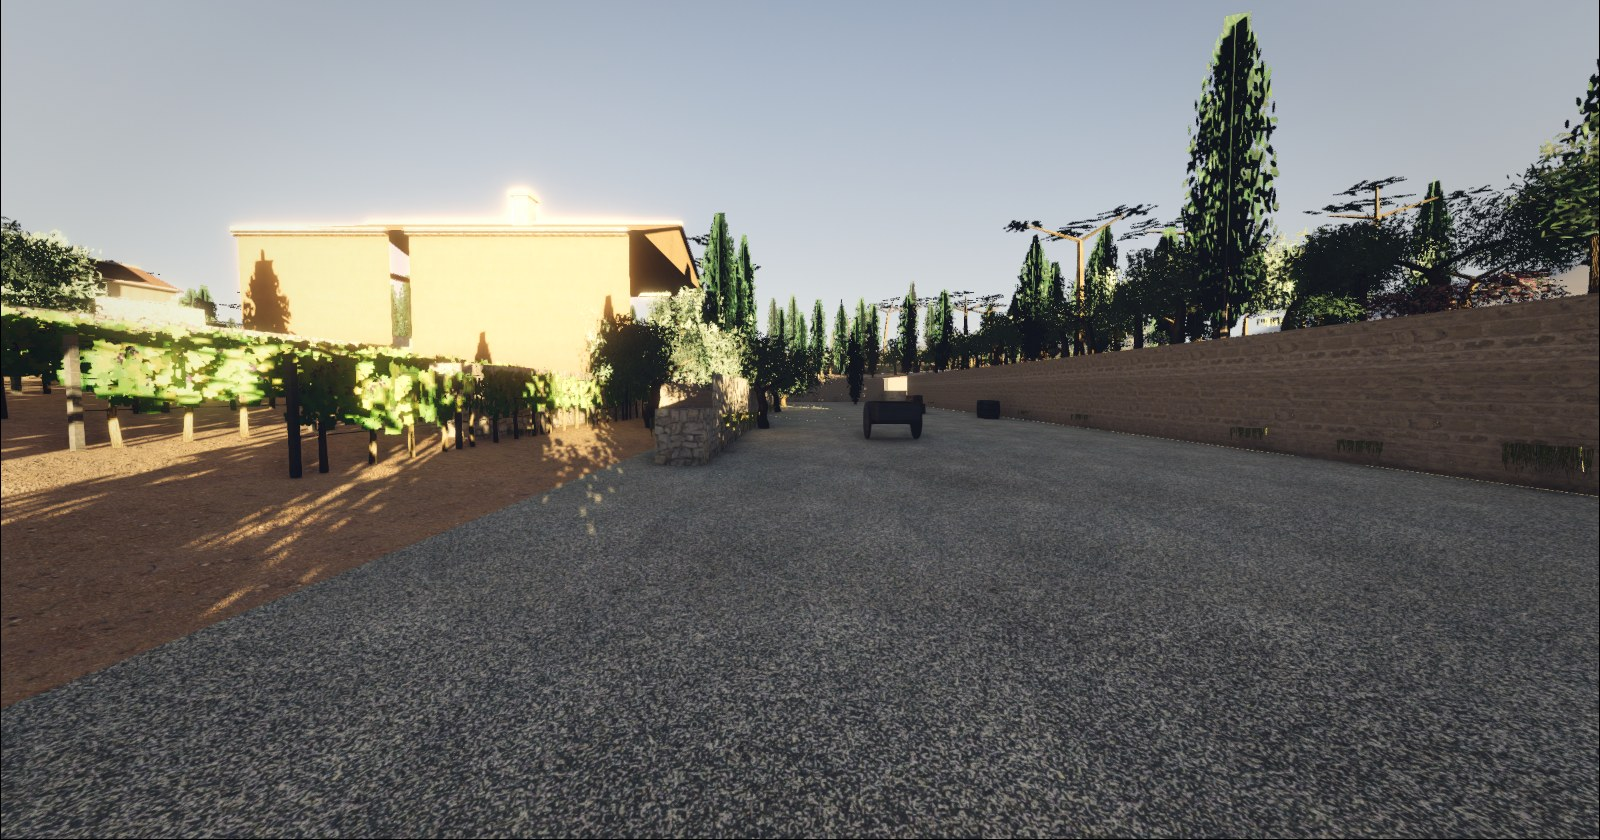
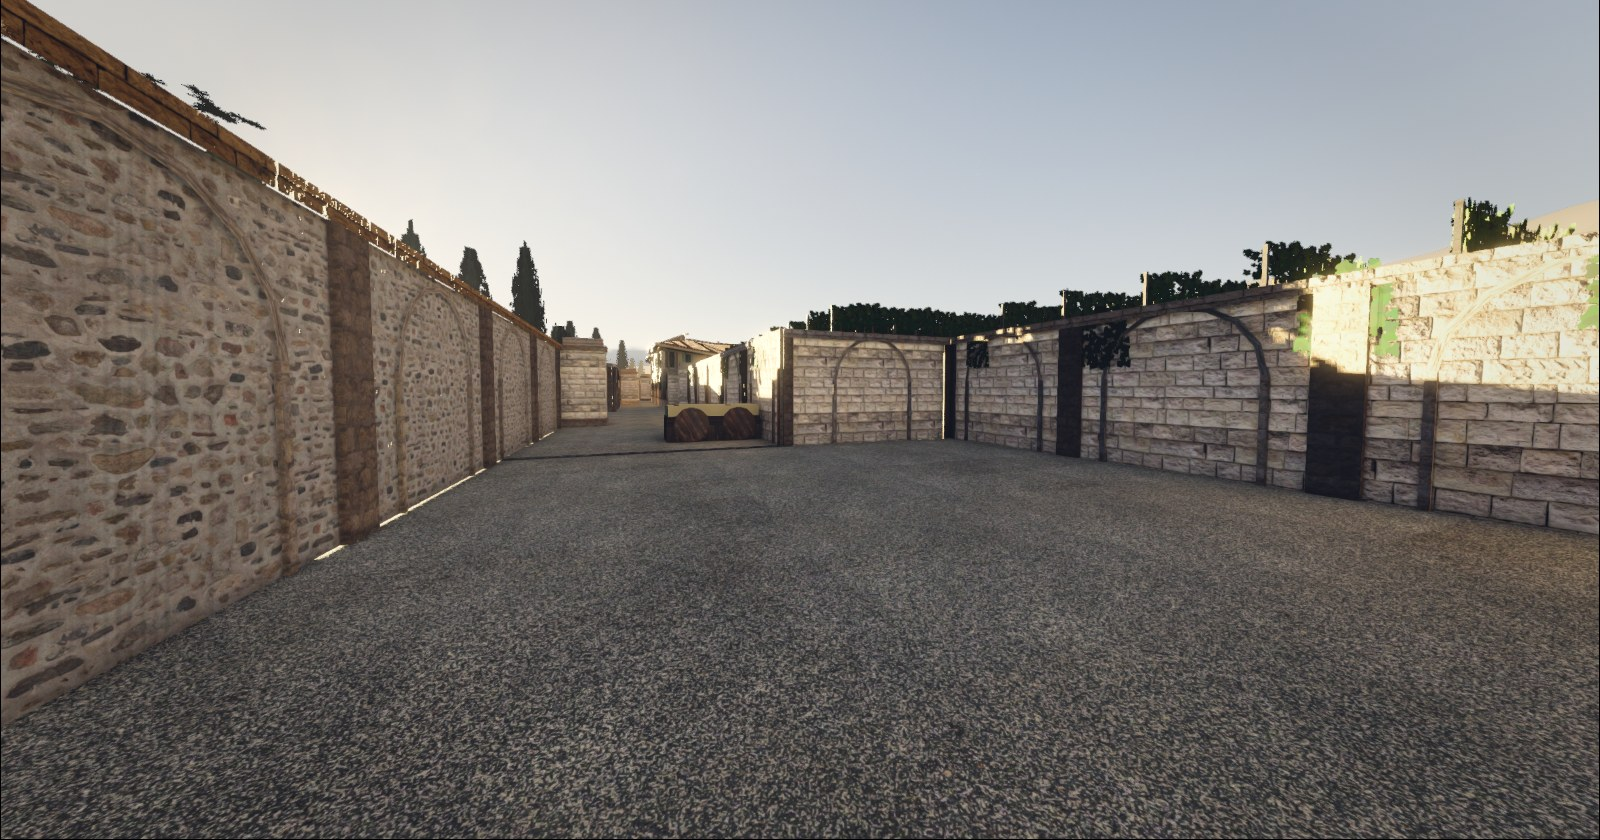
Hjemmeside: Fattoria-områder efter den nye bane (piazza, tærskeplads, udkigstårn, tinaia, grusgård)

diff --git a/index.html b/index.html
@@ -194,8 +194,8 @@
     </section>
 
     <div class="tape tape--b" aria-hidden="true"><div class="tape__track">
-      <span>DE_BUREAU ▮ TAGTERRASSEN ▮ ATRIET ▮ DE_NISEKO ▮ KANALEN ▮ ZEN-HAVEN ▮ DE_FATTORIA ▮ VINMARKEN ▮ VINKÆLDEREN ▮ PIAZZAEN ▮&nbsp;</span>
-      <span>DE_BUREAU ▮ TAGTERRASSEN ▮ ATRIET ▮ DE_NISEKO ▮ KANALEN ▮ ZEN-HAVEN ▮ DE_FATTORIA ▮ VINMARKEN ▮ VINKÆLDEREN ▮ PIAZZAEN ▮&nbsp;</span>
+      <span>DE_BUREAU ▮ TAGTERRASSEN ▮ ATRIET ▮ DE_NISEKO ▮ KANALEN ▮ ZEN-HAVEN ▮ DE_FATTORIA ▮ PIAZZAEN ▮ TÆRSKEPLADSEN ▮ UDKIGSTÅRNET ▮ TINAIAEN ▮&nbsp;</span>
+      <span>DE_BUREAU ▮ TAGTERRASSEN ▮ ATRIET ▮ DE_NISEKO ▮ KANALEN ▮ ZEN-HAVEN ▮ DE_FATTORIA ▮ PIAZZAEN ▮ TÆRSKEPLADSEN ▮ UDKIGSTÅRNET ▮ TINAIAEN ▮&nbsp;</span>
     </div></div>
 
     <!-- BANER -->
@@ -228,11 +228,11 @@
             <li data-map="niseko" hidden><button class="pool__btn" data-name="de_niseko · a – zen-haven" data-img="assets/img/maps/niseko_a.jpg" data-radar="assets/img/radar/niseko.png" data-desc="A-site: zen-have med rakede grusbede, helligdom og torii i nordøst. Åbent, med sigt langs East Long.">A – Zen-haven <small>03</small></button></li>
             <li data-map="niseko" hidden><button class="pool__btn" data-name="de_niseko · b – lagerhuset" data-img="assets/img/maps/niseko_b.jpg" data-radar="assets/img/radar/niseko.png" data-desc="B-site: lagerhuset i vest med træbalkon (B Gallery) og to døre – tæt kamp bag papirvæggene.">B – Lagerhuset <small>04</small></button></li>
             <li data-map="niseko" hidden><button class="pool__btn" data-name="de_niseko · hijackers" data-img="assets/img/maps/niseko_south.jpg" data-radar="assets/img/radar/niseko.png" data-desc="Hijackernes spawn i syd: Canal Road og Hij Alley fører op mod landsbyens hjerte.">Hijackernes gyde <small>05</small></button></li>
-            <li data-map="fattoria" hidden><button class="pool__btn" data-name="de_fattoria · vinmarken" data-img="assets/img/maps/fattoria_vineyard.jpg" data-radar="assets/img/radar/fattoria.png" data-desc="Midten: vinmarken med gennemsigtige vinrækker, en 45°-stenmur og væltede tønder – lavt sollys og lange skygger.">Vinmarken <small>01</small></button></li>
-            <li data-map="fattoria" hidden><button class="pool__btn" data-name="de_fattoria · a – vinkælderen" data-img="assets/img/maps/fattoria_cellar.jpg" data-radar="assets/img/radar/fattoria.png" data-desc="A-site: den gamle vinkælder med hvælvinger, tønder og lysskakter. Presseriet, Kælderbalkonen og Flaskelageret fører ned.">A – Vinkælderen <small>02</small></button></li>
-            <li data-map="fattoria" hidden><button class="pool__btn" data-name="de_fattoria · b – villa-piazzaen" data-img="assets/img/maps/fattoria_piazza.jpg" data-radar="assets/img/radar/fattoria.png" data-desc="B-site: villaens piazza med marmorfontæne og loggia. Hovedporten, Biblioteket og Staldene lukker krydsilden.">B – Piazzaen <small>03</small></button></li>
-            <li data-map="fattoria" hidden><button class="pool__btn" data-name="de_fattoria · terrakotta-terrassen" data-img="assets/img/maps/fattoria_terrace.jpg" data-radar="assets/img/radar/fattoria.png" data-desc="Terrakotta-terrassen over kælderen: åben, solbeskinnet og farlig – Pergola- og Biblioteks-trapperne fører op.">Terrakotta-terrassen <small>04</small></button></li>
-            <li data-map="fattoria" hidden><button class="pool__btn" data-name="de_fattoria · hijackers" data-img="assets/img/maps/fattoria_spawn.jpg" data-radar="assets/img/radar/fattoria.png" data-desc="Hijackernes spawn nederst i grusgården: cypresser, olietræer og en lang mur at dække bag.">Grusgården <small>05</small></button></li>
+            <li data-map="fattoria" hidden><button class="pool__btn" data-name="de_fattoria · mid – piazzaen" data-img="assets/img/maps/fattoria_mid.jpg" data-radar="assets/img/radar/fattoria.png" data-desc="Midten: den store piazza med fontæne, parasolfyr og lave mure. Her kan hele holdet dele sig – North, Link, East Pocket og Mid South mødes.">Mid – Piazzaen <small>01</small></button></li>
+            <li data-map="fattoria" hidden><button class="pool__btn" data-name="de_fattoria · a – tærskepladsen" data-img="assets/img/maps/fattoria_a.jpg" data-radar="assets/img/radar/fattoria.png" data-desc="A-site: den runde stenlagte tærskeplads med brønd, fire indgange og lave mure at skjule sig bag.">A – Tærskepladsen <small>02</small></button></li>
+            <li data-map="fattoria" hidden><button class="pool__btn" data-name="de_fattoria · udkigstårnet" data-img="assets/img/maps/fattoria_tower.jpg" data-radar="assets/img/radar/fattoria.png" data-desc="Udkigstårnet: dæk med kamme og jerngitter, der ser ned over A og kan skydes på tilbage – men man kan ikke hoppe ned på sitet.">Udkigstårnet <small>03</small></button></li>
+            <li data-map="fattoria" hidden><button class="pool__btn" data-name="de_fattoria · b – tinaiaen" data-img="assets/img/maps/fattoria_bhall.jpg" data-radar="assets/img/radar/fattoria.png" data-desc="B-site: tinaiaen – en 33 m lang stenhal med bærepiller, fødertønder og et galleri langs nordvæggen.">B – Tinaiaen <small>04</small></button></li>
+            <li data-map="fattoria" hidden><button class="pool__btn" data-name="de_fattoria · hijackers" data-img="assets/img/maps/fattoria_spawn.jpg" data-radar="assets/img/radar/fattoria.png" data-desc="Hijackernes grusgård i sydøst: en lang South Road mod vest og East Road op mod Mid – brudt af støttepiller, så ingen har en 100 m skydebane.">Grusgården <small>05</small></button></li>
           </ul>
 
           <div class="pool__view">
